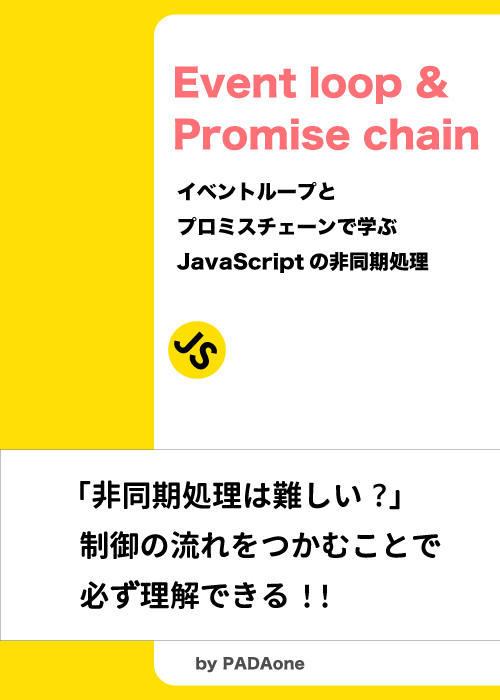
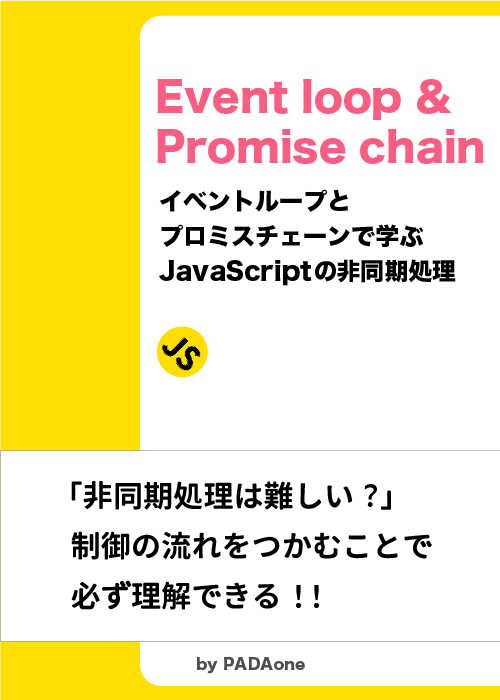
本を修正: カバー画像を微修正+記事内容の微修正

diff --git a/books/js-async-promise-chain-event-loop/2.epasync-event-loop.md b/books/js-async-promise-chain-event-loop/2.epasync-event-loop.md
@@ -2,9 +2,9 @@
 title: "Event loop の各ステップ"
 ---
 
-まず、Event loop の各ステップについて、後で使用するので説明しておきます。
+Promise チェーンの解説に入る前に、まずは Event loop の各ステップについて説明しておきます。
 
-Event Loop は Macrotask queue と Microtask queue 内にある Macrotask/Microtask を処理するためのループアルゴリズムです。Event Loop は次に実行する Macrotask/Microtask を選択して、Call Stack へと配置します。
+Event Loop は Macrotask queue と Microtask queue 内にある Macrotask/Microtask を処理するための**ループアルゴリズム**です。Event Loop は次に実行する Macrotask/Microtask を選択して、Call Stack へと配置します。
 
 Event Loop は次の４つのステップから構成されます。
 
